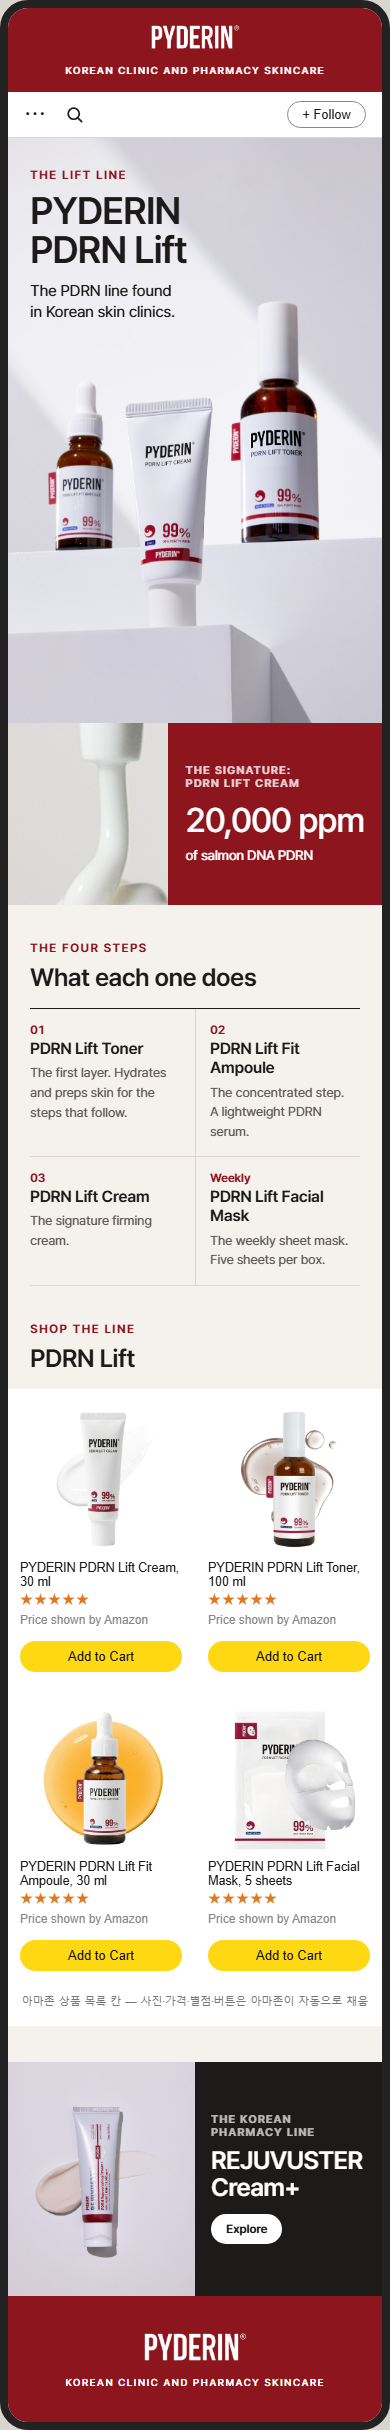
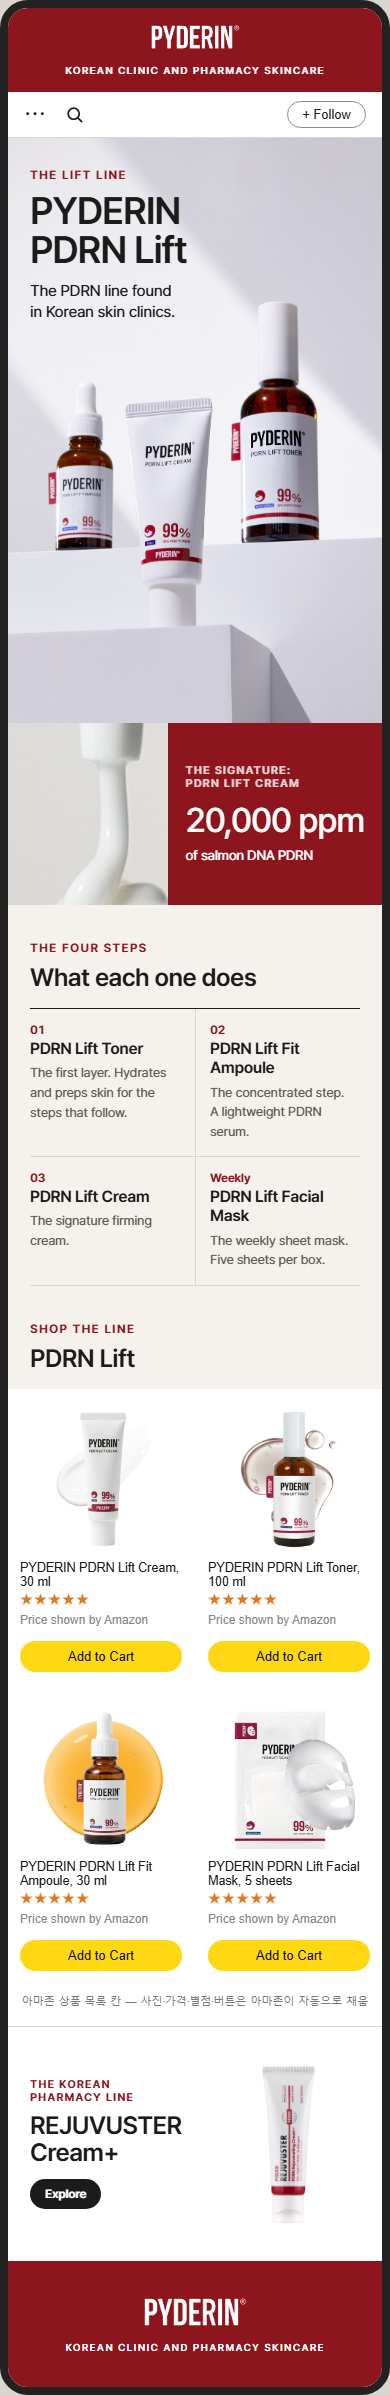
라인 이동 칸 두 개를 같은 모양으로 통일

diff --git a/index.html b/index.html
@@ -293,12 +293,12 @@
   .az .buy { display: block; text-align: center; background: #ffd814; border-radius: 999px; padding: 8px 0; font-size: 13px; color: #111; }
   .aznote { font: 11px "Malgun Gothic", sans-serif; color: #777; text-align: center; padding: 8px 0 10px; background: #fff; letter-spacing: 0; }
   /* 다른 라인으로 가는 칸: 사진 반, 글 반 */
-  .xt { display: grid; grid-template-columns: 1fr 1fr; margin-top: 36px; background: var(--ink); color: #fff; text-decoration: none; }
+  .xt { display: grid; grid-template-columns: 1fr 1fr; background: #fff; color: var(--ink); text-decoration: none; border-top: 1px solid var(--line); }
   .xt img { width: 100%; height: 100%; aspect-ratio: 4/5; object-fit: cover; }
-  .xt div { padding: 22px 16px; align-self: center; }
-  .xt .eyebrow { opacity: .7; font-size: 11px; }
+  .xt div { padding: 22px 12px 22px 22px; align-self: center; }
+  .xt .eyebrow { color: var(--red); font-size: 11px; }
   .xt b { display: block; font-size: 25px; line-height: 1.06; font-weight: 600; letter-spacing: -.025em; margin: 8px 0 14px; }
-  .xt u { display: inline-block; text-decoration: none; font-size: 12px; font-weight: 600; background: #fff; color: var(--ink); border-radius: 999px; padding: 8px 15px; }
+  .xt u { display: inline-block; text-decoration: none; font-size: 12px; font-weight: 600; background: var(--ink); color: #fff; border-radius: 999px; padding: 8px 15px; }
   .xt + .sec .end, .pair + .sec .end { margin-top: 0; }
   .lead { padding: 26px 22px 0; font-size: 17px; line-height: 1.45; letter-spacing: -.01em; margin: 0; }
   /* 지그재그: 사진과 글이 번갈아 */
@@ -415,7 +415,7 @@
     </div></div>
   <div class="sec"><div class="title"><span class="eyebrow">Shop the line</span><h3>PDRN Lift</h3></div></div>
   <div class="sec az"><div class="grid"><div class="card"><img class="pk" src="img/m-cream.jpg" alt="">PYDERIN PDRN Lift Cream, 30 ml<br><span class="stars">★★★★★</span><span class="price">Price shown by Amazon</span><span class="buy">Add to Cart</span></div><div class="card"><img class="pk" src="img/m-toner.jpg" alt="">PYDERIN PDRN Lift Toner, 100 ml<br><span class="stars">★★★★★</span><span class="price">Price shown by Amazon</span><span class="buy">Add to Cart</span></div><div class="card"><img class="pk" src="img/ampoule.jpg" alt="">PYDERIN PDRN Lift Fit Ampoule, 30 ml<br><span class="stars">★★★★★</span><span class="price">Price shown by Amazon</span><span class="buy">Add to Cart</span></div><div class="card"><img class="pk" src="img/mask.jpg" alt="">PYDERIN PDRN Lift Facial Mask, 5 sheets<br><span class="stars">★★★★★</span><span class="price">Price shown by Amazon</span><span class="buy">Add to Cart</span></div></div><div class="aznote">아마존 상품 목록 칸 — 사진·가격·별점·버튼은 아마존이 자동으로 채움</div></div>
-  <a class="xt" href="#rejuvuster"><img src="img/v3/rj-smear.jpg" alt=""><div><span class="eyebrow">The Korean pharmacy line</span><b>REJUVUSTER<br>Cream+</b><u>Explore</u></div></a>
+  <a class="xt" href="#rejuvuster"><div><span class="eyebrow">The Korean pharmacy line</span><b>REJUVUSTER<br>Cream+</b><u>Explore</u></div><img src="img/c-rejuvuster.png" alt="" style="object-fit:contain;padding:14px 0"></a>
   <div class="sec"><div class="end"><img src="img/logo-white.png" alt="PYDERIN" style="height:30px;margin:auto"><small>Korean clinic and pharmacy skincare</small></div></div></div><div class="page" id="rejuvuster">
   <div class="sec full" style="background:#eceaf0"><div style="text-align:center;padding:32px 22px 0"><span class="eyebrow">The Korean pharmacy line</span><h2>REJUVUSTER<br>Cream+</h2><p style="margin:auto;max-width:290px">The PDRN cream carried by pharmacies across Korea.</p></div>
     <img src="img/v3/rj-three.jpg" alt="" style="aspect-ratio:390/470;object-position:50% 78%;-webkit-mask-image:linear-gradient(#0000,#000 16%);mask-image:linear-gradient(#0000,#000 16%)"></div>
@@ -433,7 +433,7 @@
   <div class="sec feat"><img src="img/pick/p11.jpg" alt="" style="object-position:50% 15%"><div><span class="eyebrow">At the counter</span><b style="font-size:19px;font-weight:500">“When I judge absorption, I look at molecular size first.”</b><span style="font-size:12px;color:var(--mute)">Pharmacist, Seoul</span></div></div>
   <div class="sec"><div class="title" style="padding-top:30px"><span class="eyebrow">Shop the line</span><h3>REJUVUSTER</h3></div></div>
   <div class="sec az"><div class="grid"><div class="card"><img class="pk" src="img/m-rejuvuster.jpg" alt="">PYDERIN REJUVUSTER Cream+, 25 ml<br><span class="stars">★★★★★</span><span class="price">Price shown by Amazon</span><span class="buy">Add to Cart</span></div></div><div class="aznote">아마존 상품 목록 칸 — 사진·가격·별점·버튼은 아마존이 자동으로 채움</div></div>
-  <a class="xt" href="#pyderin" style="background:#fff;color:var(--ink)"><div><span class="eyebrow" style="color:var(--red);opacity:1">The Lift line</span><b>PYDERIN<br>PDRN Lift</b><u style="background:var(--ink);color:#fff">Explore</u></div><img src="img/v3/lift-trio.jpg" alt="" style="object-position:55% 60%"></a>
+  <a class="xt" href="#pyderin"><div><span class="eyebrow">The Lift line</span><b>PYDERIN<br>PDRN Lift</b><u>Explore</u></div><img src="img/v3/lift-trio.jpg" alt="" style="object-position:55% 60%"></a>
   <div class="sec"><div class="end"><img src="img/logo-white.png" alt="PYDERIN" style="height:30px;margin:auto"><small>Korean clinic and pharmacy skincare</small></div></div></div><div class="page" id="about">
   <div class="sec"><div class="band" style="text-align:left;padding:34px 22px 30px"><span class="eyebrow">About us</span><h2 style="font-size:33px;margin-bottom:0;text-wrap:balance">PDRN skincare from Korea's clinics and pharmacies</h2></div>
     <img src="img/v3/rj-lab-wide.jpg" alt="" style="width:100%;aspect-ratio:3/2;object-fit:cover"></div>
